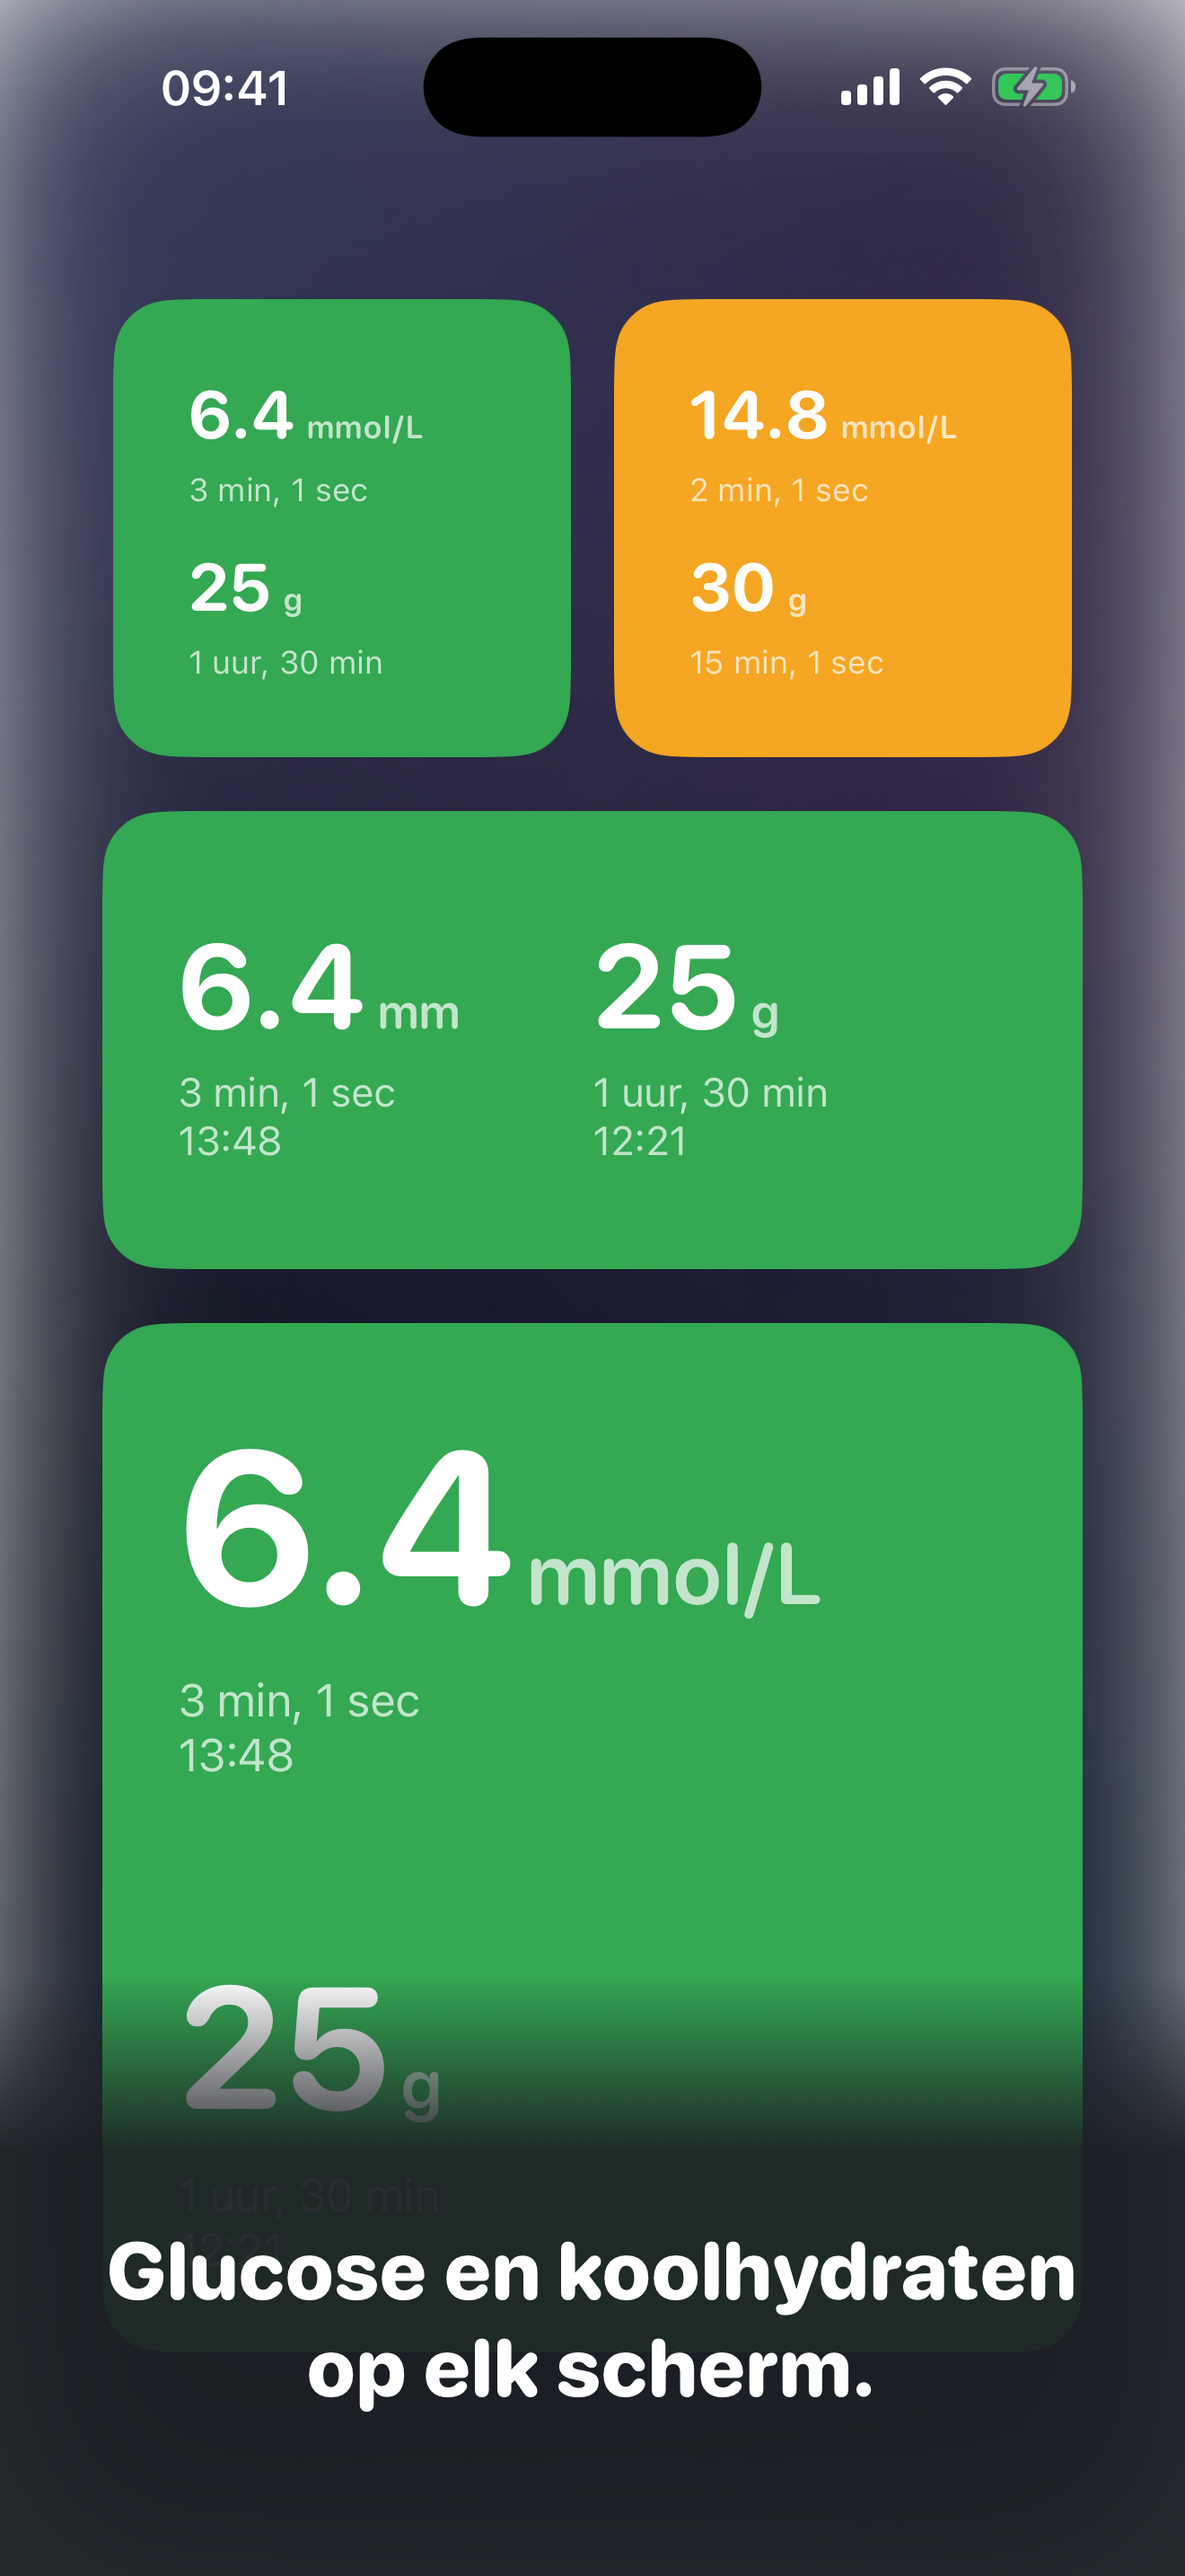
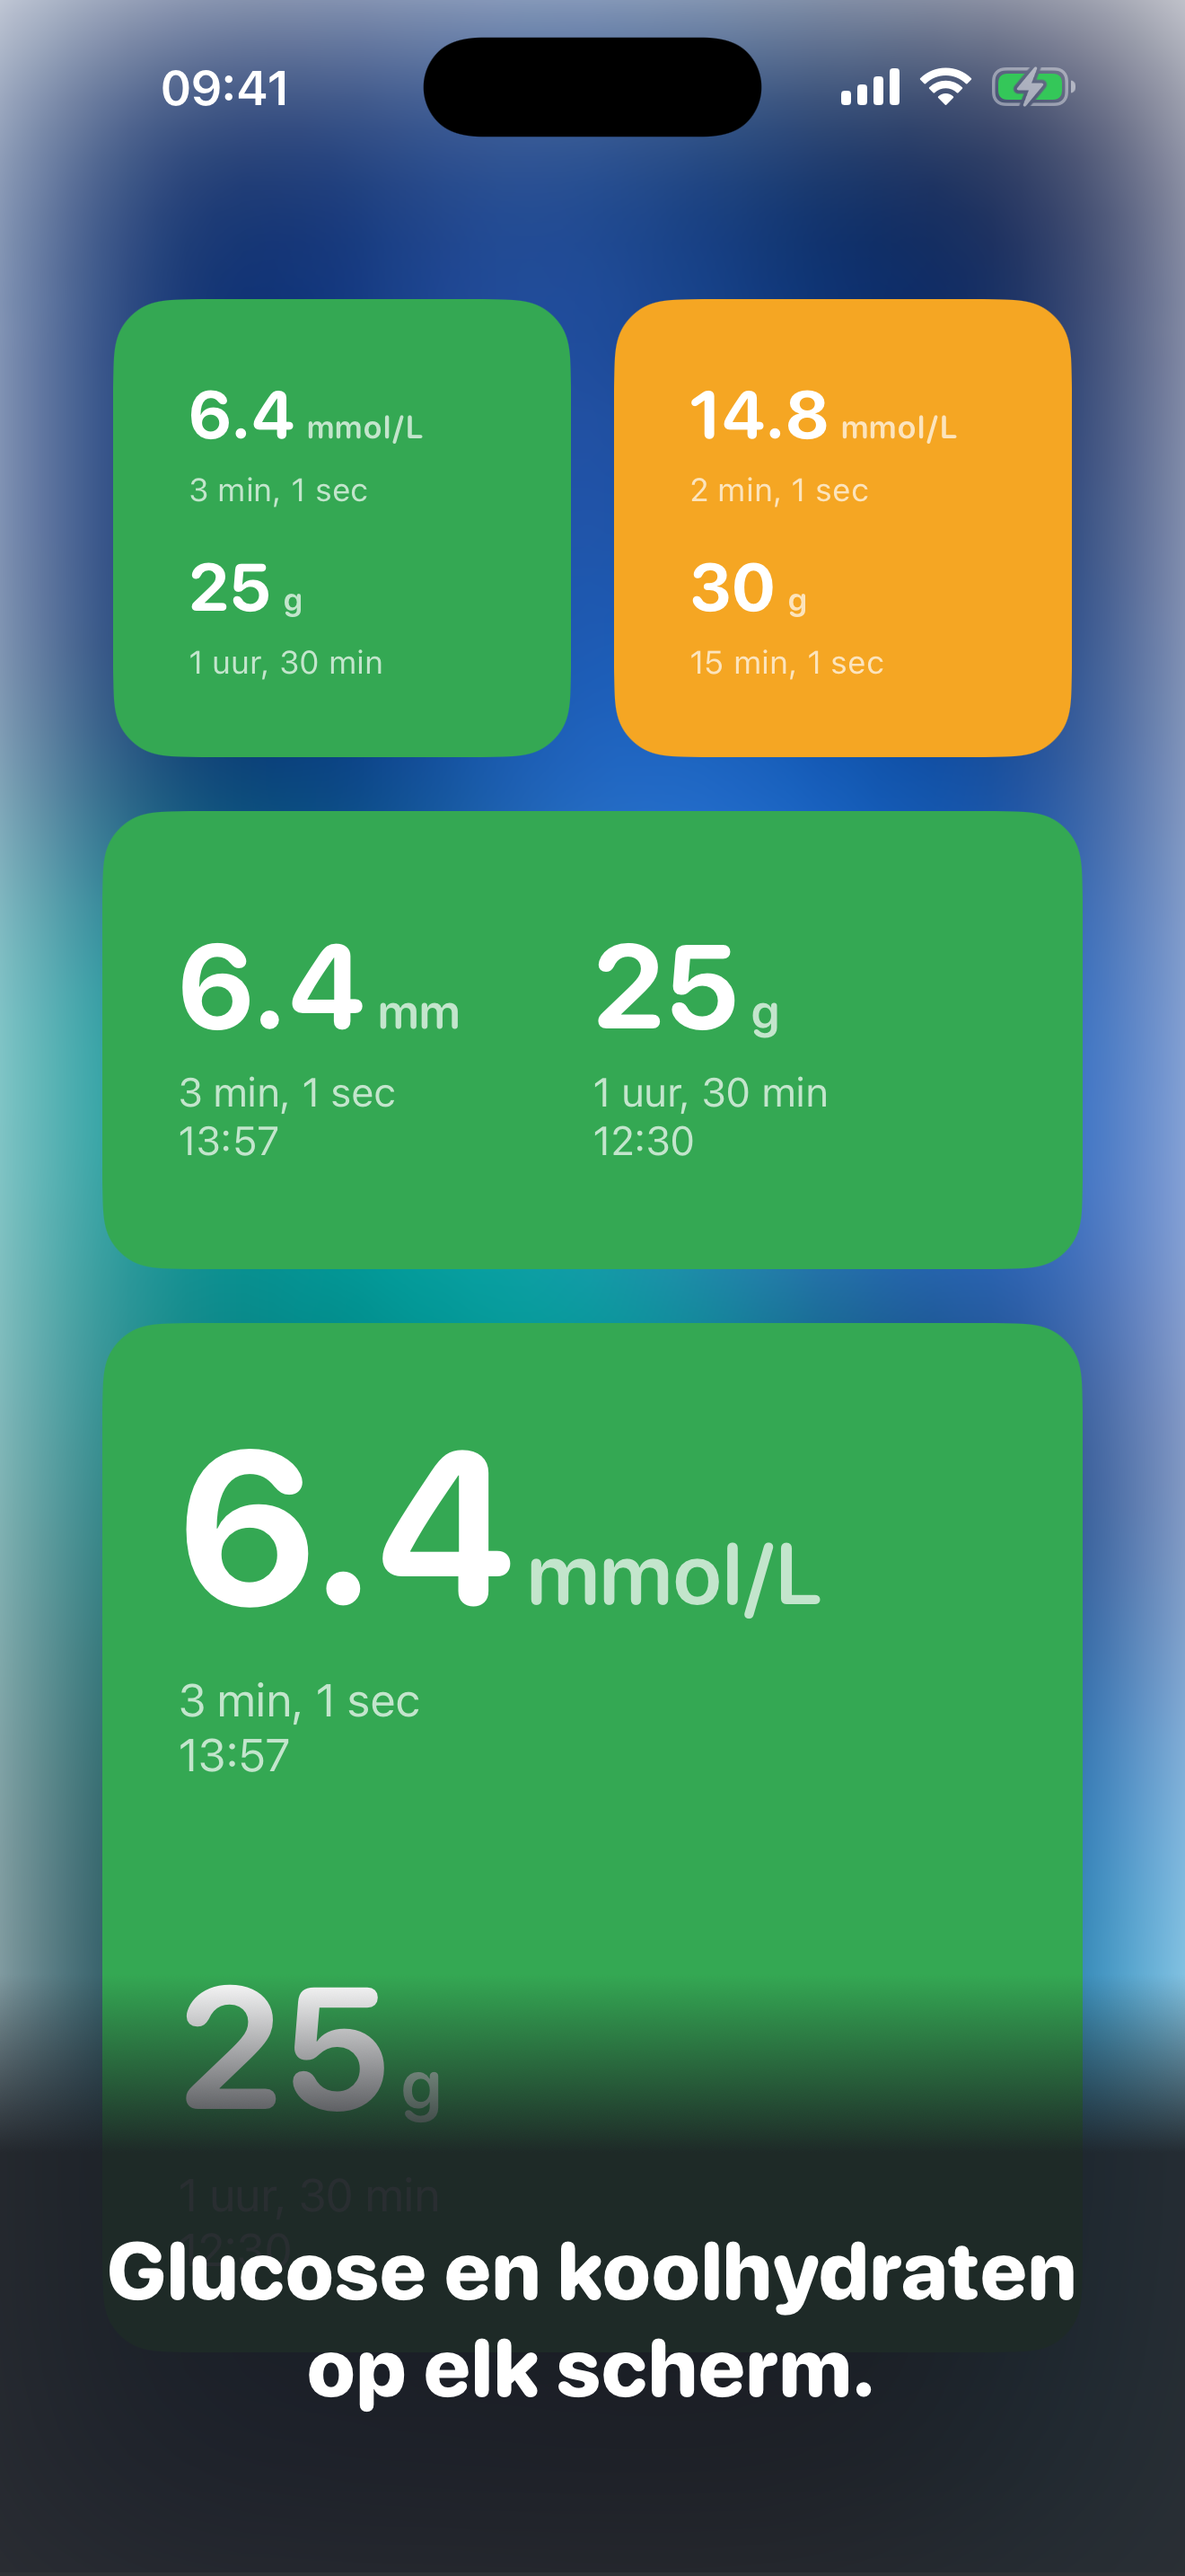
style(appstore): swap gradient backdrop for heavily-blurred wallpaper
The SwiftUI radial-gradient stack looked muddy under the caption
banner's bottom-fade — too much colour in the backdrop competed with
the banner's dark gradient, and the top of the screen had a
distinctive cool-purple cast that didn't feel like a stock Home
Screen.

Replace it with a copy of the stock iOS 26 dark wallpaper shipped as
a new `HomeScreenBackdrop.imageset` in the App asset catalog, then
`.blur(radius: 50)` in SwiftUI. Heavy blur renders it as a clean
neutral-dark surface — no recognizable detail bleeds through, so
nothing identifiable as Apple's artwork ends up in the App Store
listing, but the result reads as a real phone rather than a marketing
card. Caption banner now blends naturally into the backdrop.

The `homeScreenBackdrop` property is still the single swap point if
we ever want to iterate further (different wallpaper, different blur
radius, pure code).

Refreshed iOS/fastlane/screenshots/{en-US,nl-NL}/04_widgets.png and
synced the docs mirror.

Refs #86

Changed region(s): [[0.0, 0.0, 1.0, 0.8379], [0.2174, 0.6517, 0.2485, 0.6827]]

diff --git a/iOS/App/WidgetShowcaseView.swift b/iOS/App/WidgetShowcaseView.swift
@@ -8,8 +8,8 @@ import SwiftUI
 /// can never drift from the live widget visuals.
 ///
 /// Not a drop-in Home Screen simulator (no dock or page dots) — just three
-/// tiles stacked over a softly-blurred dark backdrop that evokes a Home
-/// Screen wallpaper, which is what the App Store screenshot guide asks for:
+/// tiles stacked over a heavily-blurred copy of the stock iOS dark wallpaper,
+/// which is what the App Store screenshot guide asks for:
 /// "small + medium + large in a stack, mix of green and red".
 struct WidgetShowcaseView: View {
     // Widget geometry for a 6.9" iPhone. Hard-coded because we only capture
@@ -51,59 +51,22 @@ struct WidgetShowcaseView: View {
 
     // MARK: - Backdrop
 
-    /// Softly-blurred dark backdrop that evokes a Home Screen wallpaper
-    /// behind a widget stack, so the App Store shot reads as "widgets on
-    /// your phone" rather than "widgets on a marketing card". Pure SwiftUI
-    /// (no asset, no licensing concerns) — a few overlapping radial
-    /// gradients in muted cool tones give the blur something to soften,
-    /// and the dark neutral palette lets the green / orange tile fills
-    /// carry all the colour. Locale-independent by construction.
+    /// Heavily-blurred copy of the stock iOS dark wallpaper so the App Store
+    /// shot reads as "widgets on your phone" rather than "widgets on a
+    /// marketing card". The asset is blurred hard (`radius: 50`) and the
+    /// backdrop is never itself shown on a shipped iOS surface — only in
+    /// the simulator-only `-UITest_Scene widgets` screenshot — so no
+    /// recognizable wallpaper detail ends up in the App Store listing.
+    /// `.scaledToFill()` + `.clipped()` crops to whatever the showcase frame
+    /// ends up being; the source artwork is portrait-shaped so the crop
+    /// stays natural on 6.9" captures.
     private var homeScreenBackdrop: some View {
-        ZStack {
-            Color(red: 0.07, green: 0.09, blue: 0.13)
-
-            RadialGradient(
-                colors: [
-                    Color(red: 0.22, green: 0.28, blue: 0.42).opacity(0.85),
-                    .clear
-                ],
-                center: .topLeading,
-                startRadius: 0,
-                endRadius: 520
-            )
-
-            RadialGradient(
-                colors: [
-                    Color(red: 0.32, green: 0.20, blue: 0.40).opacity(0.55),
-                    .clear
-                ],
-                center: UnitPoint(x: 0.85, y: 0.25),
-                startRadius: 0,
-                endRadius: 480
-            )
-
-            RadialGradient(
-                colors: [
-                    Color(red: 0.10, green: 0.22, blue: 0.32).opacity(0.7),
-                    .clear
-                ],
-                center: .bottomTrailing,
-                startRadius: 0,
-                endRadius: 620
-            )
-
-            RadialGradient(
-                colors: [
-                    Color(red: 0.04, green: 0.06, blue: 0.10).opacity(0.6),
-                    .clear
-                ],
-                center: UnitPoint(x: 0.15, y: 0.75),
-                startRadius: 0,
-                endRadius: 500
-            )
-        }
-        .blur(radius: 40)
-        .ignoresSafeArea()
+        Image("HomeScreenBackdrop")
+            .resizable()
+            .scaledToFill()
+            .blur(radius: 50)
+            .clipped()
+            .ignoresSafeArea()
     }
 
     // MARK: - Tiles
